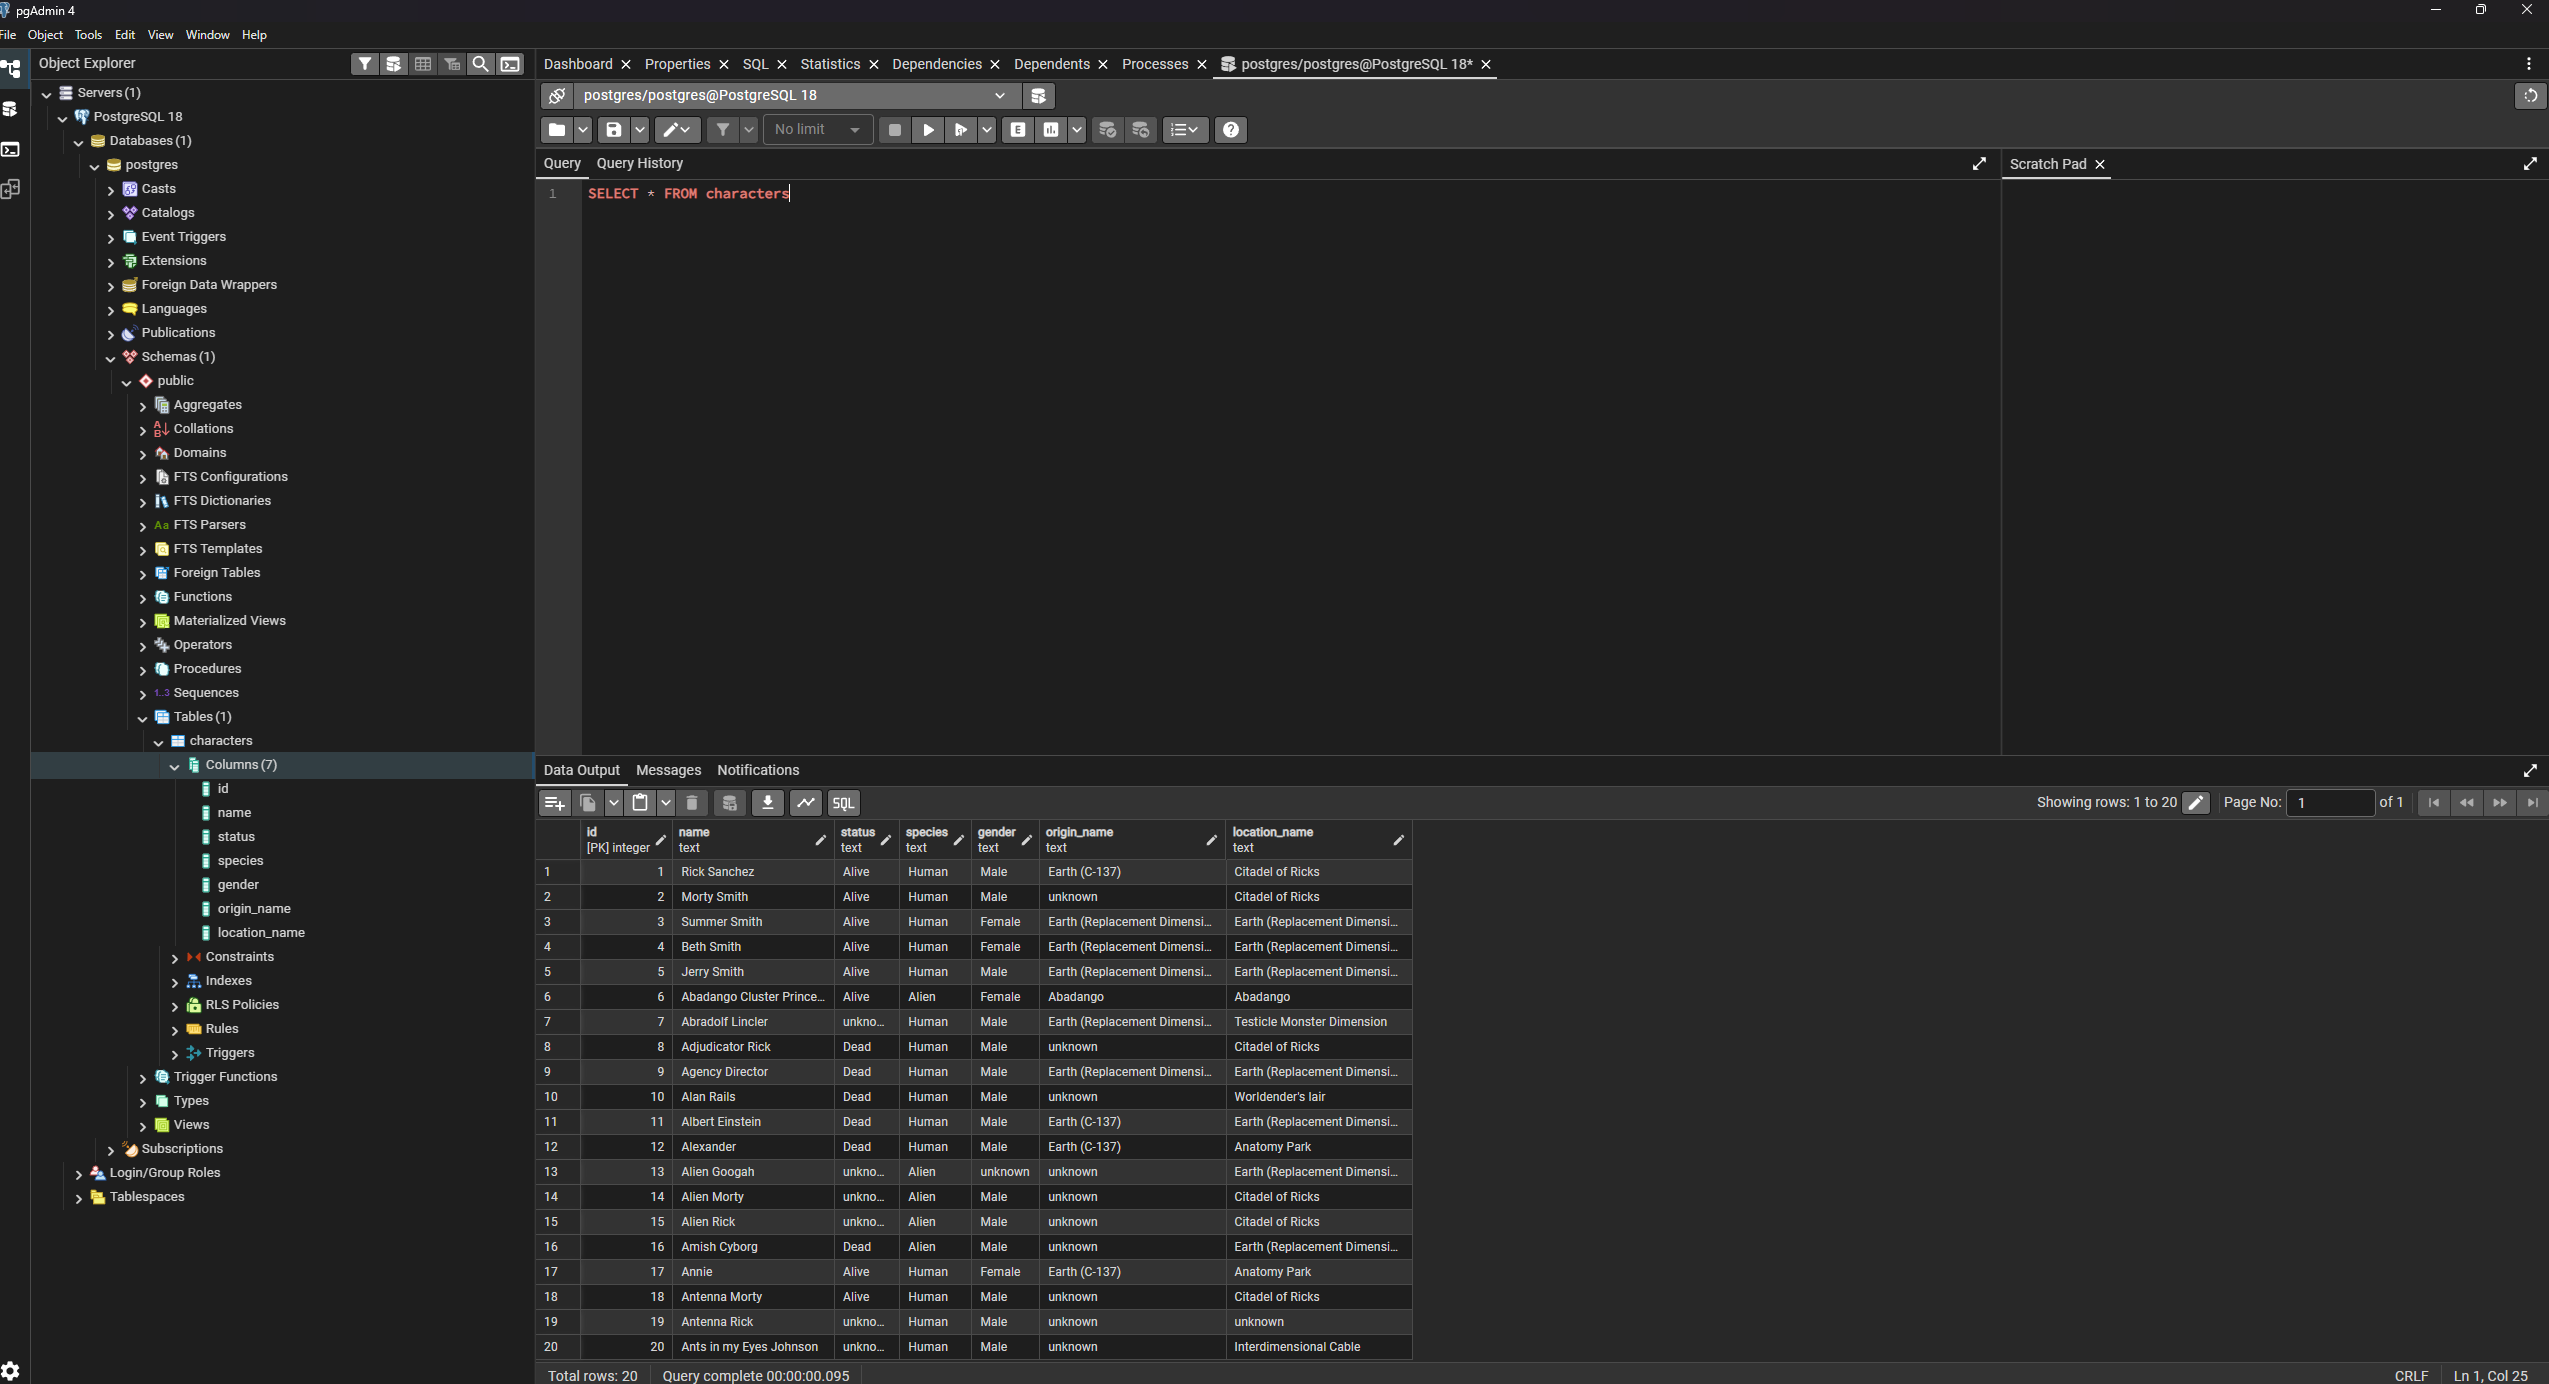
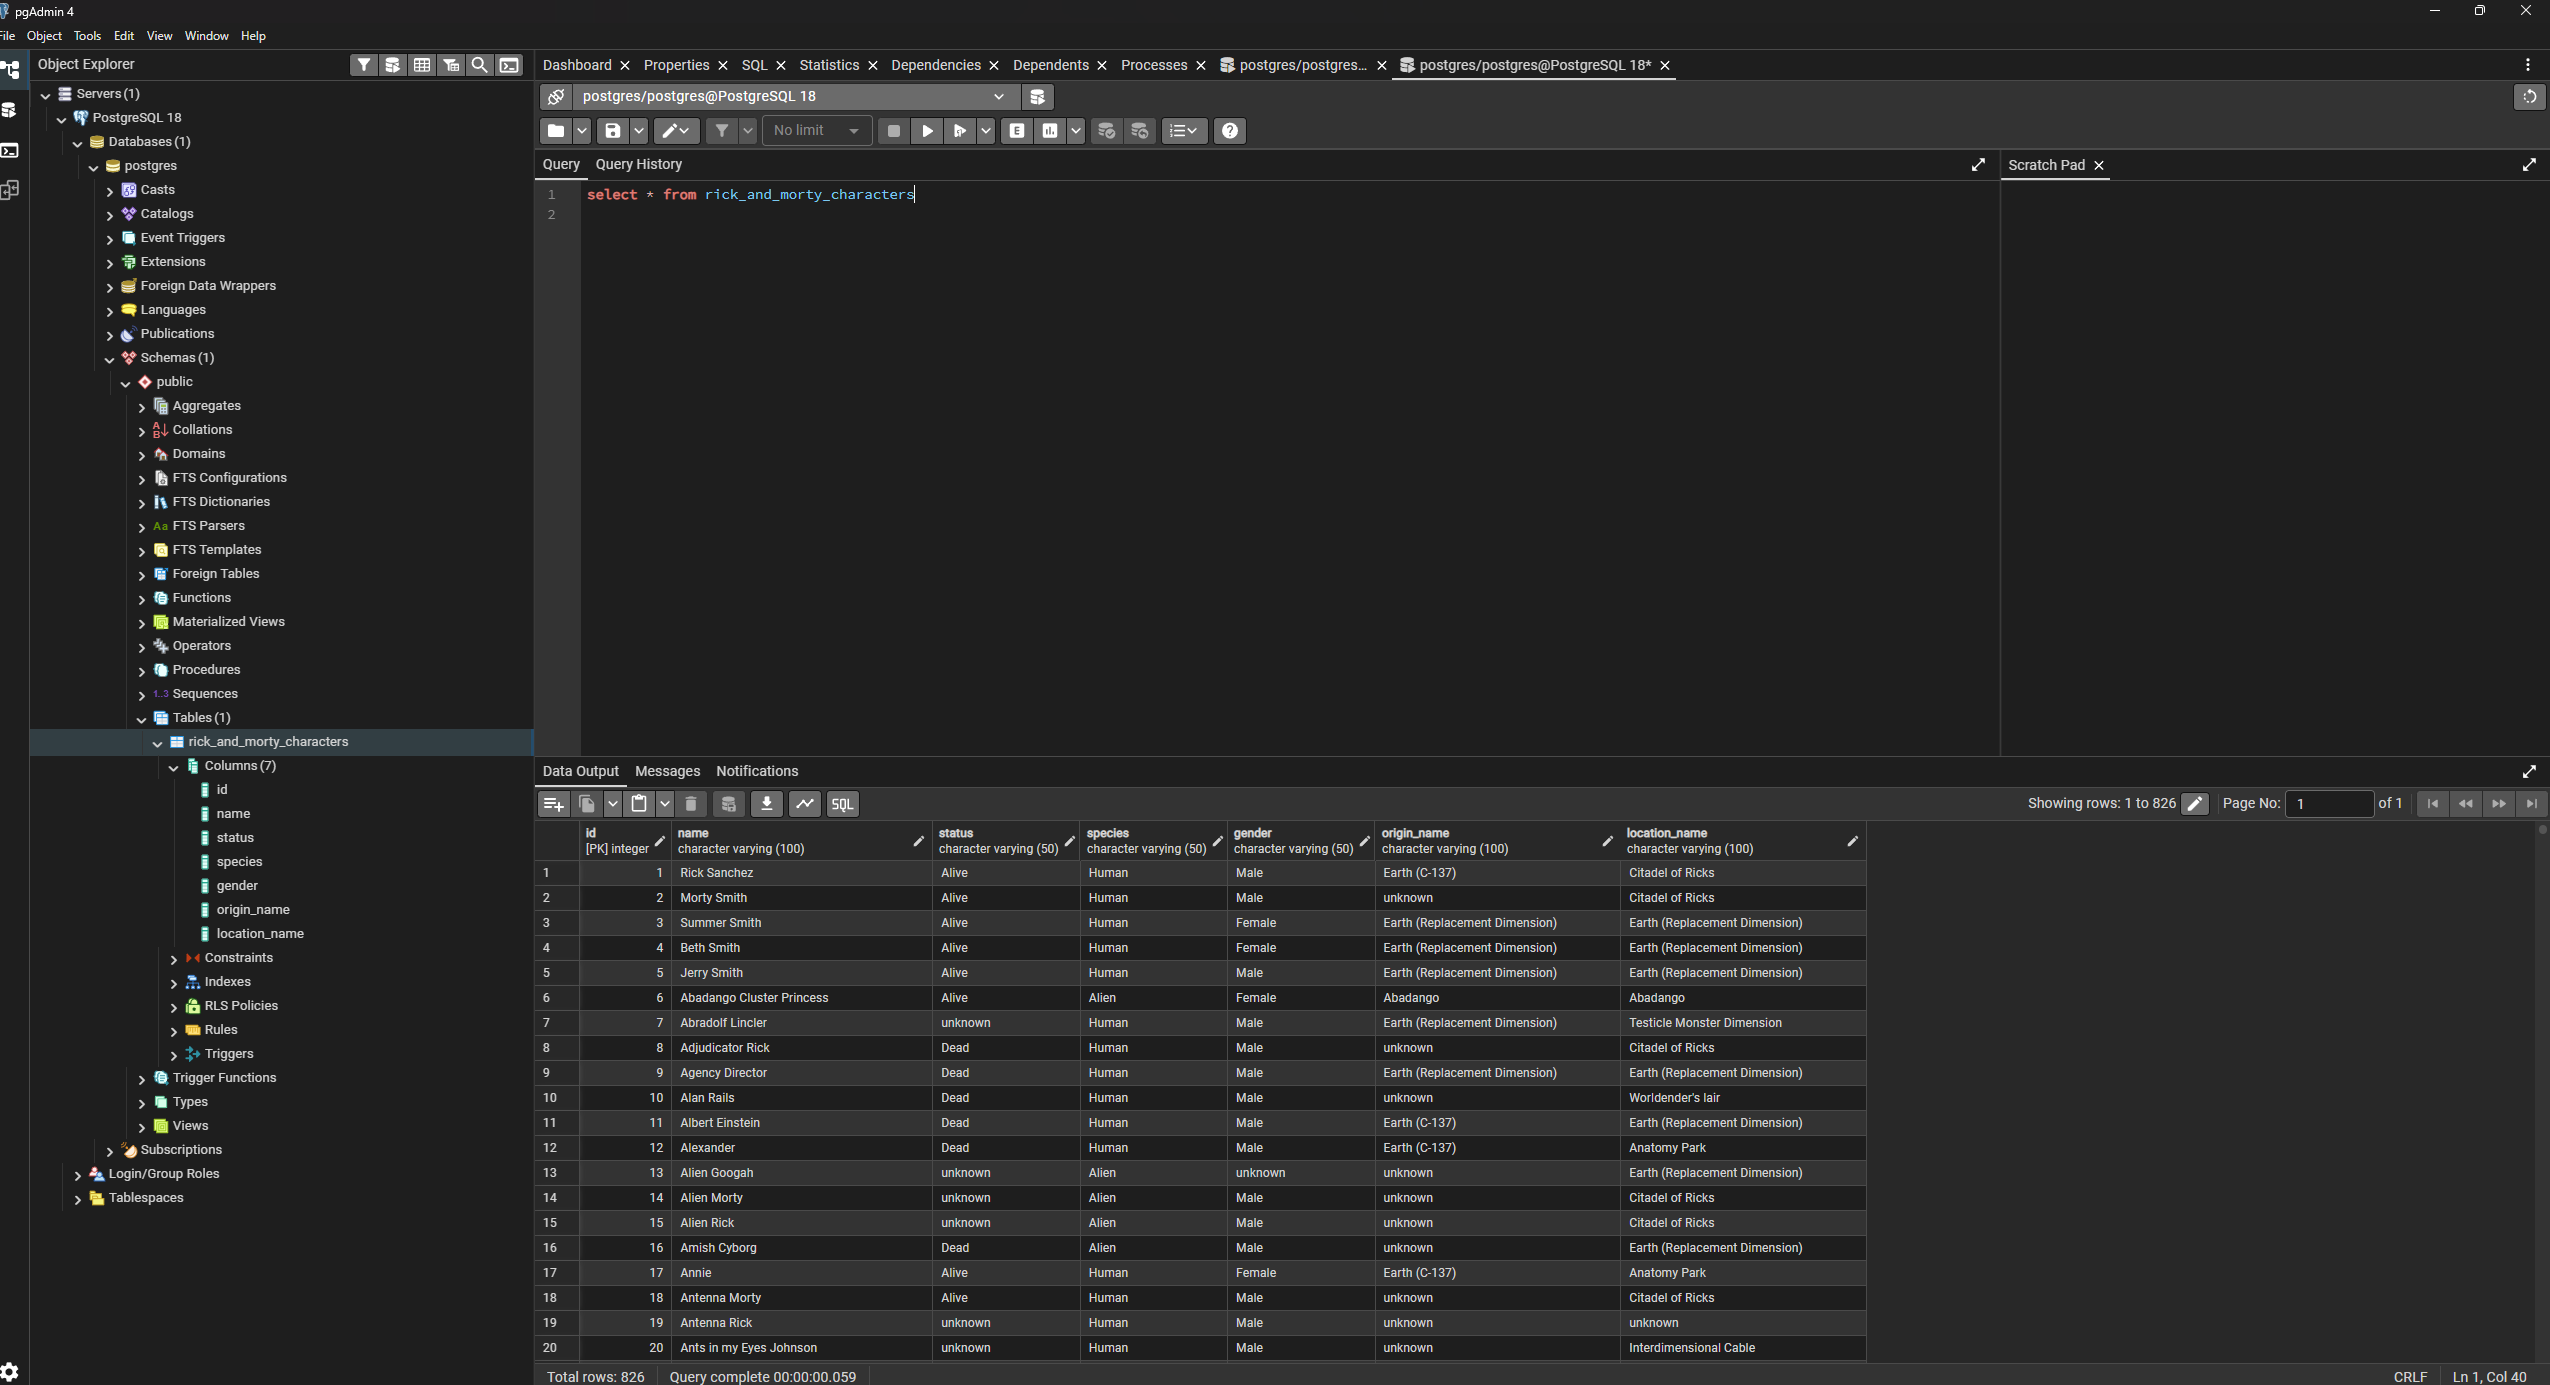
Altera o script load utilizando boas praticas

diff --git a/load.api.py b/load.api.py
@@ -11,30 +11,43 @@ conn = psycopg2.connect(
     user="seu_usuario",
     password="sua_senha"
 )
-cur = conn.cursor()
+cursor = conn.cursor()
 
-# Cria a tabela (se não existir)
-cur.execute("""
-CREATE TABLE IF NOT EXISTS characters (
-    id INTEGER PRIMARY KEY,
-    name TEXT,
-    status TEXT,
-    species TEXT,
-    gender TEXT,
-    origin_name TEXT,
-    location_name TEXT
-)
+cursor = conn.cursor()
+
+# Cria a tabela no banco de dados com as colunas necessárias
+cursor.execute("""
+CREATE TABLE IF NOT EXISTS rick_and_morty_characters (
+    id INT PRIMARY KEY,
+    name VARCHAR(100),
+    status VARCHAR(50),
+    species VARCHAR(50),
+    gender VARCHAR(50),
+    origin_name VARCHAR(100),
+    location_name VARCHAR(100)
+);
 """)
 
-# Insere os dados
-for _, row in df.iterrows():
-    cur.execute("""
-        INSERT INTO characters (id, name, status, species, gender, origin_name, location_name)
+conn.commit()
+print("Tabela criada com sucesso.")
+
+# Insere os dados do DataFrame na tabela do banco de dados
+for index, row in df.iterrows(): # Percorre cada linha do DataFrame
+    cursor.execute(
+        """
+        INSERT INTO rick_and_morty_characters 
+        (id, name, status, species, gender, origin_name, location_name)
         VALUES (%s, %s, %s, %s, %s, %s, %s)
-        ON CONFLICT (id) DO NOTHING
-    """, tuple(row))
+        ON CONFLICT (id) DO NOTHING;
+        """,
+        (
+            row['id'], 
+            row['species'],
+            row['gender'],
+            row['origin_name'],
+            row['location_name']
+        )
+    )
 
 conn.commit()
-cur.close()
-conn.close()
-print("Dados carregados no PostgreSQL!")
+print("Dados inseridos com sucesso.")

diff --git a/README.md b/README.md
@@ -32,9 +32,9 @@ pip install pandas psycopg2
 ```python
 conn = psycopg2.connect(
     host="localhost",
-    database="rickmortydb",
-    user="seuusuario",
-    password="suasenha"
+    database="seu_banco",
+    user="seu_usuario",
+    password="sua_senha"
 )
 ```
 
